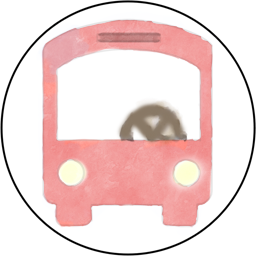
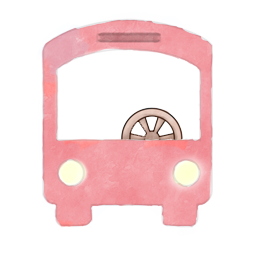
Add new background; modify cars

diff --git a/index.html b/index.html
@@ -37,6 +37,15 @@
         <label class="btn my-picker"><input type="radio" class="set-bg" name="car-bg" value="8"></label>
         <label class="btn my-picker"><input type="radio" class="set-bg" name="car-bg" value="9"></label>
         <label class="btn my-picker"><input type="radio" class="set-bg" name="car-bg" value="10"></label>
+        <label class="btn my-picker"><input type="radio" class="set-bg" name="car-bg" value="11"></label>
+        <label class="btn my-picker"><input type="radio" class="set-bg" name="car-bg" value="12"></label>
+        <label class="btn my-picker"><input type="radio" class="set-bg" name="car-bg" value="13"></label>
+        <label class="btn my-picker"><input type="radio" class="set-bg" name="car-bg" value="14"></label>
+        <label class="btn my-picker"><input type="radio" class="set-bg" name="car-bg" value="15"></label>
+        <label class="btn my-picker"><input type="radio" class="set-bg" name="car-bg" value="16"></label>
+        <label class="btn my-picker"><input type="radio" class="set-bg" name="car-bg" value="17"></label>
+        <label class="btn my-picker"><input type="radio" class="set-bg" name="car-bg" value="18"></label>
+        <label class="btn my-picker"><input type="radio" class="set-bg" name="car-bg" value="19"></label>
       </div>
       <div class="row-sm">
         <span class="col w-100">再选择喜欢的巴士 ↓</span>

diff --git a/css/custom.css b/css/custom.css
@@ -1,5 +1,5 @@
 .rainbow-bus {
-	background: linear-gradient(90deg,
+	background: linear-gradient(120deg,
 		hsl(0deg,100%,60%), hsl(30deg,100%,60%), hsl(45deg,100%,60%), hsl(60deg,100%,60%) 40%,
 		hsl(75deg,100%,60%), hsl(120deg,100%,60%), hsl(180deg,100%,60%) 70%,
 		hsl(200deg,100%,60%), hsl(240deg,100%,60%), hsl(270deg,100%,60%), hsl(300deg,100%,60%));
